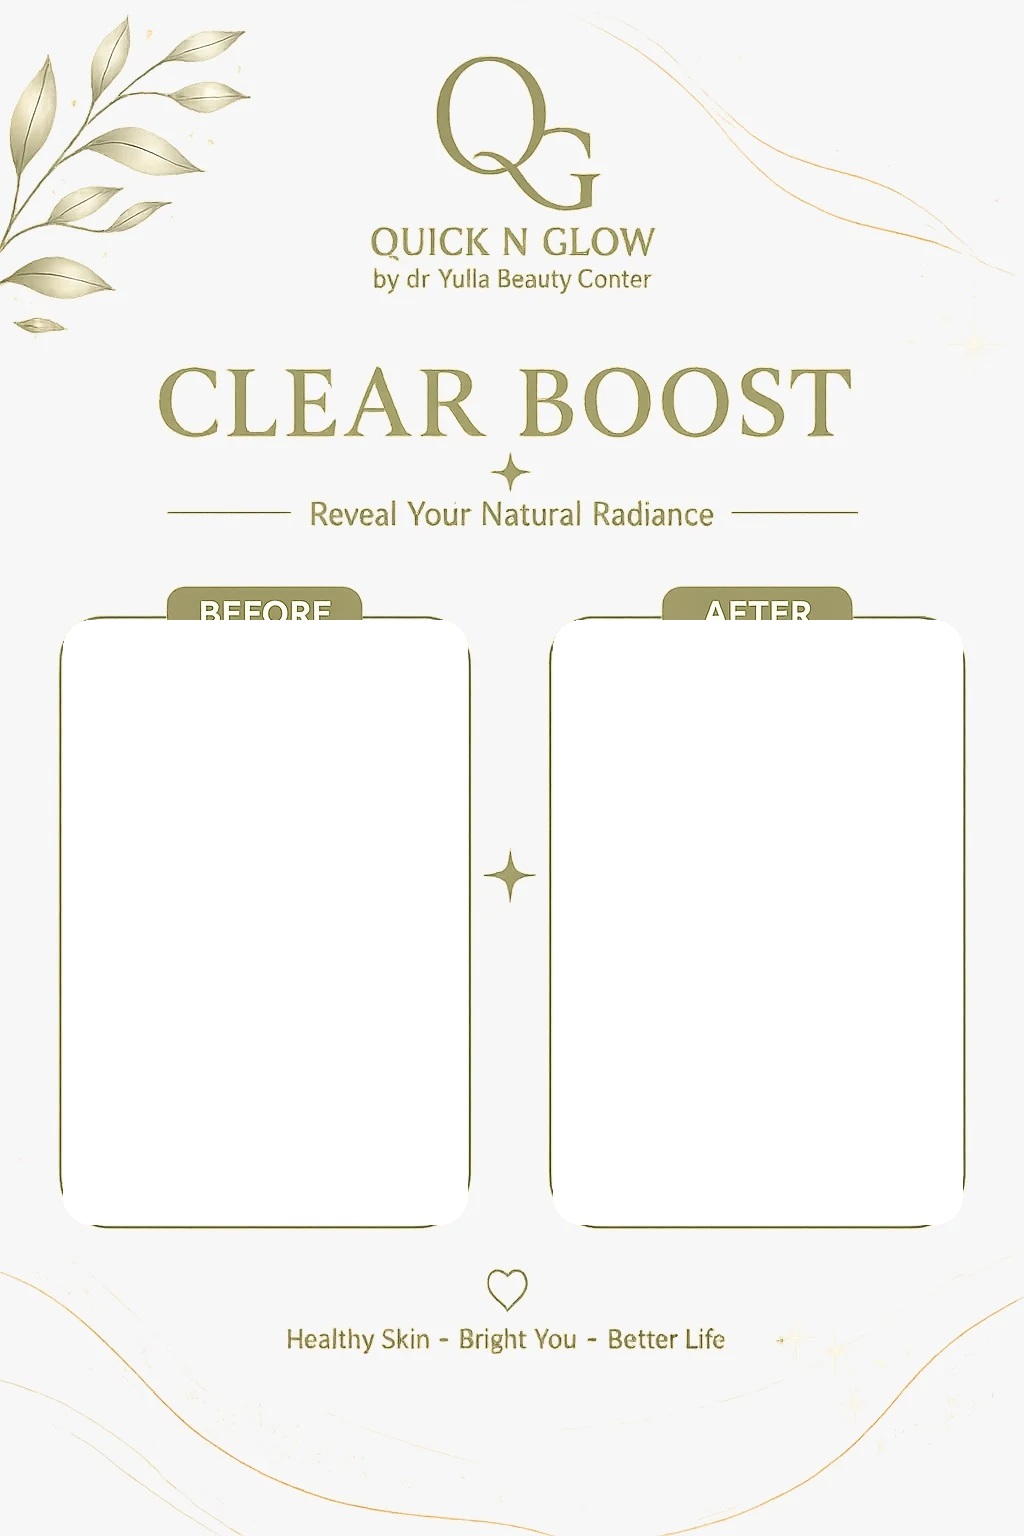
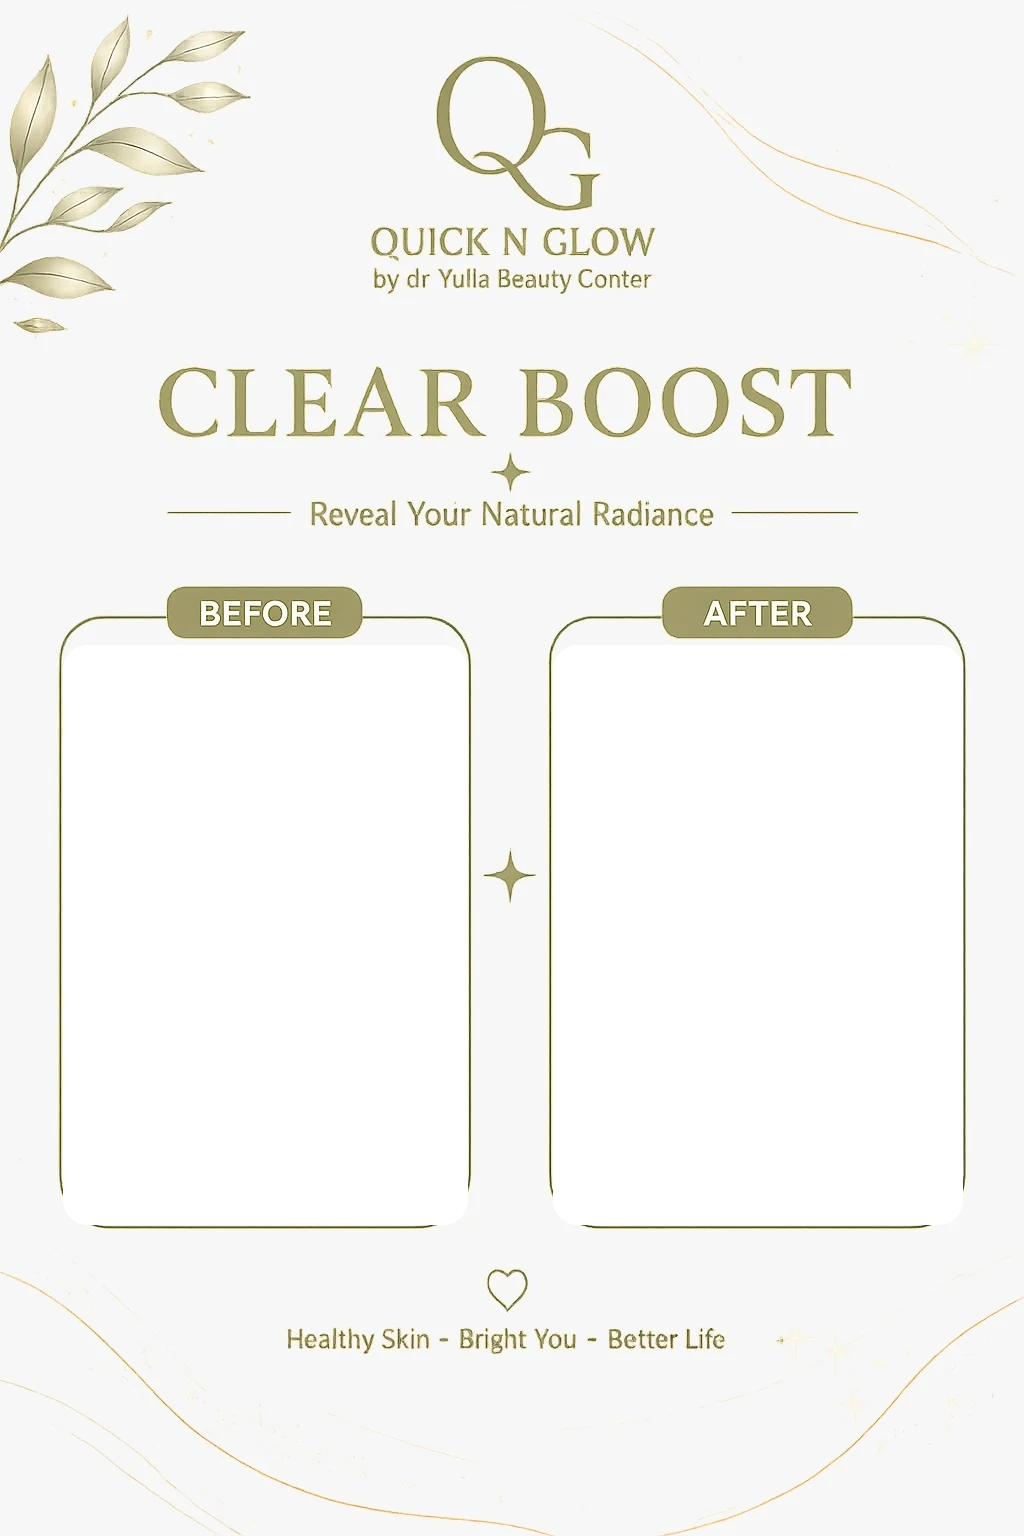
Fix label before/after ketutup foto

Changed region(s): [[0.6562, 0.4062, 0.8438, 0.4375], [0.1562, 0.4062, 0.3438, 0.4375], [0.4375, 0.4062, 0.4688, 0.4375]]

diff --git a/lib/templates.js b/lib/templates.js
@@ -17,8 +17,8 @@ export const treatments = [
       name: "Bright Template",
       image: "/templates/bright/bright1.webp",
       frame: "/templates/bright/bright1-frame.webp",
-      before: { x: 59, y: 627, width: 407, height: 612 },
-      after: { x: 551, y: 627, width: 412, height: 612 },
+      before: { x: 59, y: 651, width: 407, height: 588 },
+      after: { x: 551, y: 651, width: 412, height: 588 },
     },
   },
   {
@@ -29,8 +29,8 @@ export const treatments = [
       name: "Clear Template",
       image: "/templates/clear/clear1.webp",
       frame: "/templates/clear/clear1-frame.webp",
-      before: { x: 63, y: 620, width: 404, height: 604 },
-      after: { x: 553, y: 620, width: 409, height: 604 },
+      before: { x: 63, y: 645, width: 404, height: 579 },
+      after: { x: 553, y: 645, width: 409, height: 579 },
     },
   },
   {
@@ -41,8 +41,8 @@ export const treatments = [
       name: "Prime Template",
       image: "/templates/prime/prime1.webp",
       frame: "/templates/prime/prime1-frame.webp",
-      before: { x: 64, y: 616, width: 401, height: 614 },
-      after: { x: 553, y: 616, width: 401, height: 614 },
+      before: { x: 64, y: 670, width: 401, height: 560 },
+      after: { x: 553, y: 670, width: 401, height: 560 },
     },
   },
 ];
